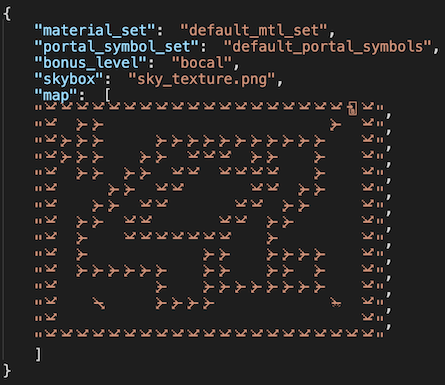
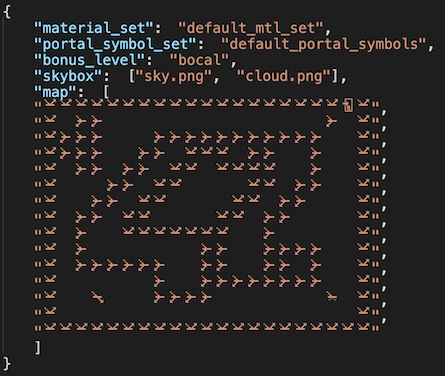
[ADD] #3 doc for multi layer texture to skybox

diff --git a/src/skybox.rs b/src/skybox.rs
@@ -8,12 +8,10 @@ use sdl2::render::{
     Canvas
 };
 
-use sdl2::video::{Window};
+use sdl2::video::Window;
 use sdl2::rect::Rect;
 
-use math_2d::{
-    Vec2,
-};
+use math_2d::Vec2;
 
 pub struct Skybox <'a> {
     textures: Vec<Texture<'a>>,
@@ -60,7 +58,7 @@ impl<'a> Skybox<'a> {
                     ((1.0 - ratio) * win_width as f32) as u32,
                     win_height / 2,
                 );
-                canvas.copy(&texture, stencil, dest).unwrap();
+                canvas.copy(texture, stencil, dest).unwrap();
                 (fov_left,
                     tex_size.width as i32 - (fov_left * width_per_deg) as i32,
                     ratio)
@@ -83,7 +81,7 @@ impl<'a> Skybox<'a> {
                 (ratio * win_width as f32) as u32,
                 win_height / 2,
             );
-            canvas.copy(&texture, stencil, dest).unwrap();
+            canvas.copy(texture, stencil, dest).unwrap();
         }
     }
 }

diff --git a/map_format.md b/map_format.md
@@ -31,7 +31,8 @@ The `assets/` directory is organized as follows:
 │       default_portal_symbols.json
 |
 ├───skybox
-│       sky_texture.png
+│       sky.png
+|       cloud.png
 |
 └───spawn_symbol_sets
         default_spawn_symbols.json
@@ -140,7 +141,7 @@ To set a spawn in your map, simply add a spawn symbol in the geometry map.
 The material map file contains the following fields:
 * (required) **"material_set"**: the name of the material set whose materials can be used in the map.
 * (required) **"portal_symbol_set"**: the name of the portal symbol set whose portals can be used in the map.
-* (optional) **"skybox"**: the skybox texture.
+* (optional) **"skybox"**: the list of skybox textures. Each one is draw in the order of the list.
 * (optional) **"previous_level"**: the name of the previous level.
 * (optional) **"next_level"**: the name of the next level.
 * (optional) **"bonus_level"**: the name of the bonus level.
